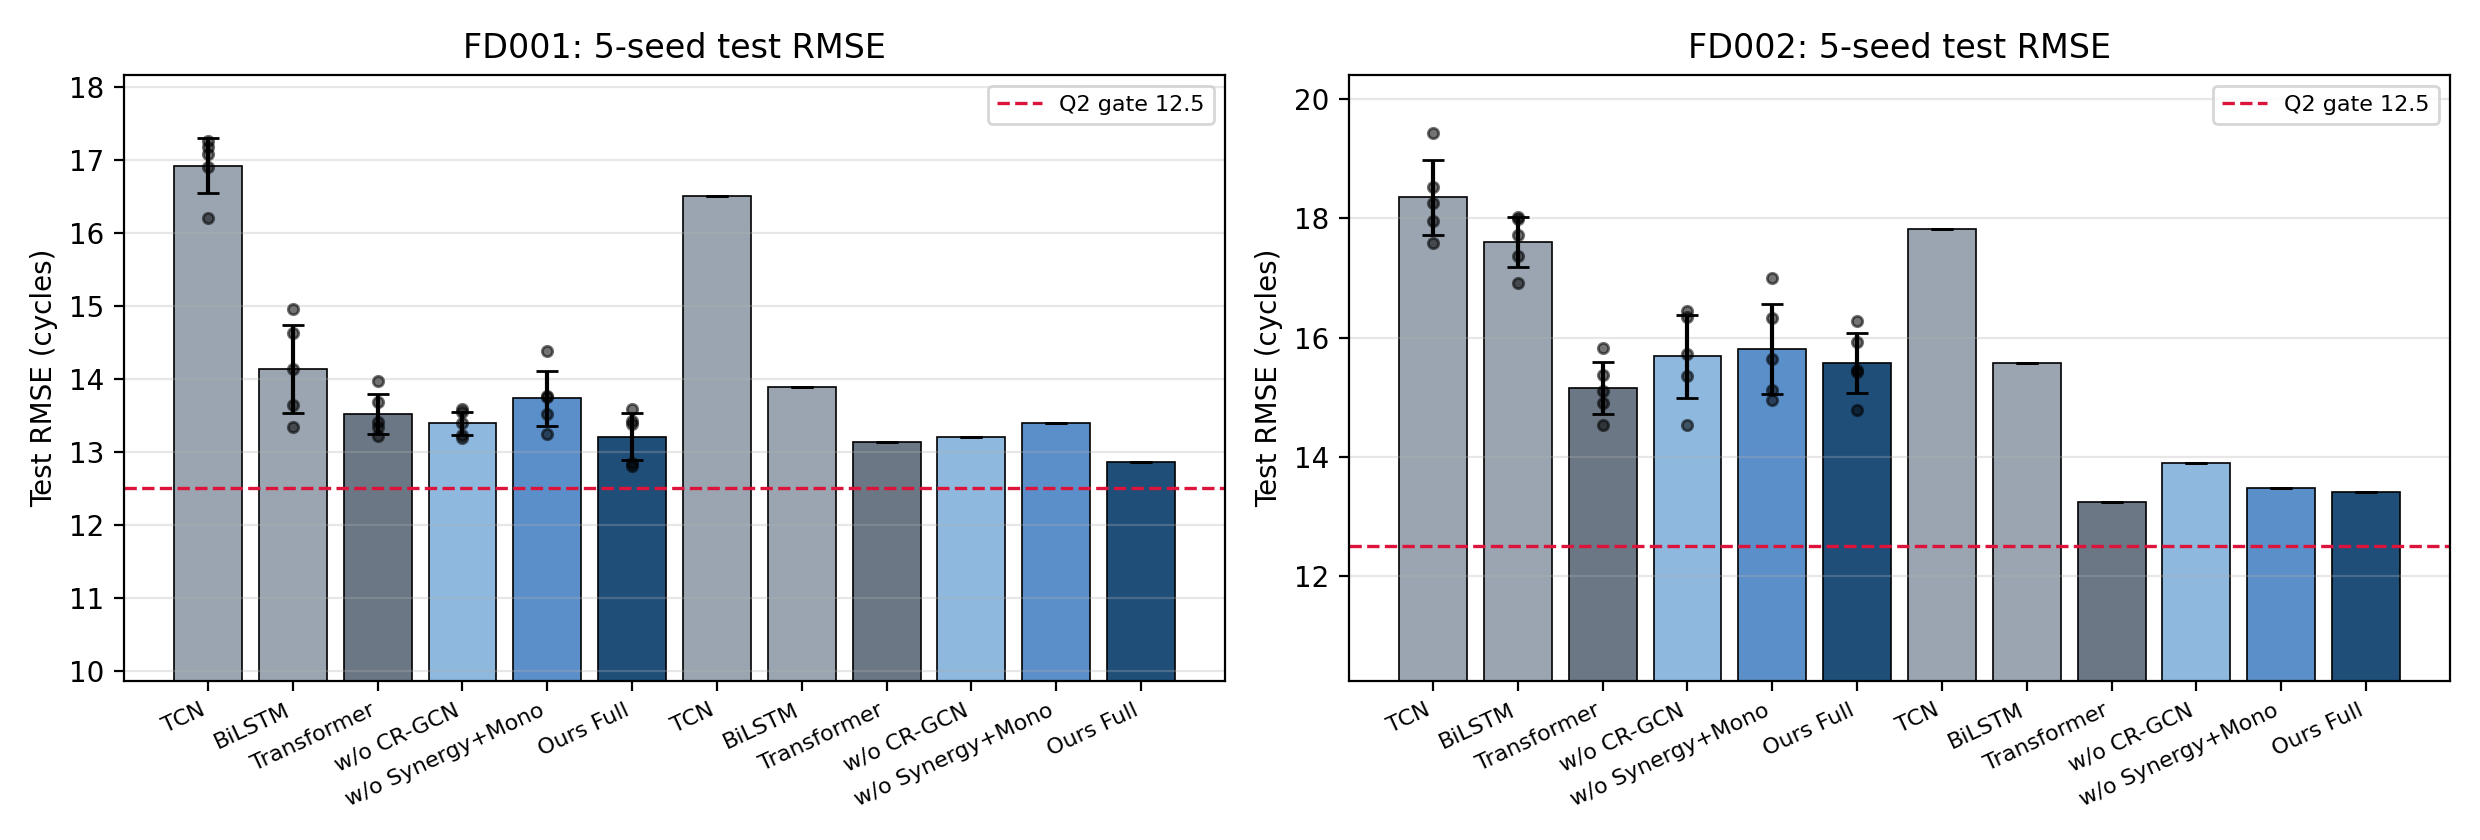
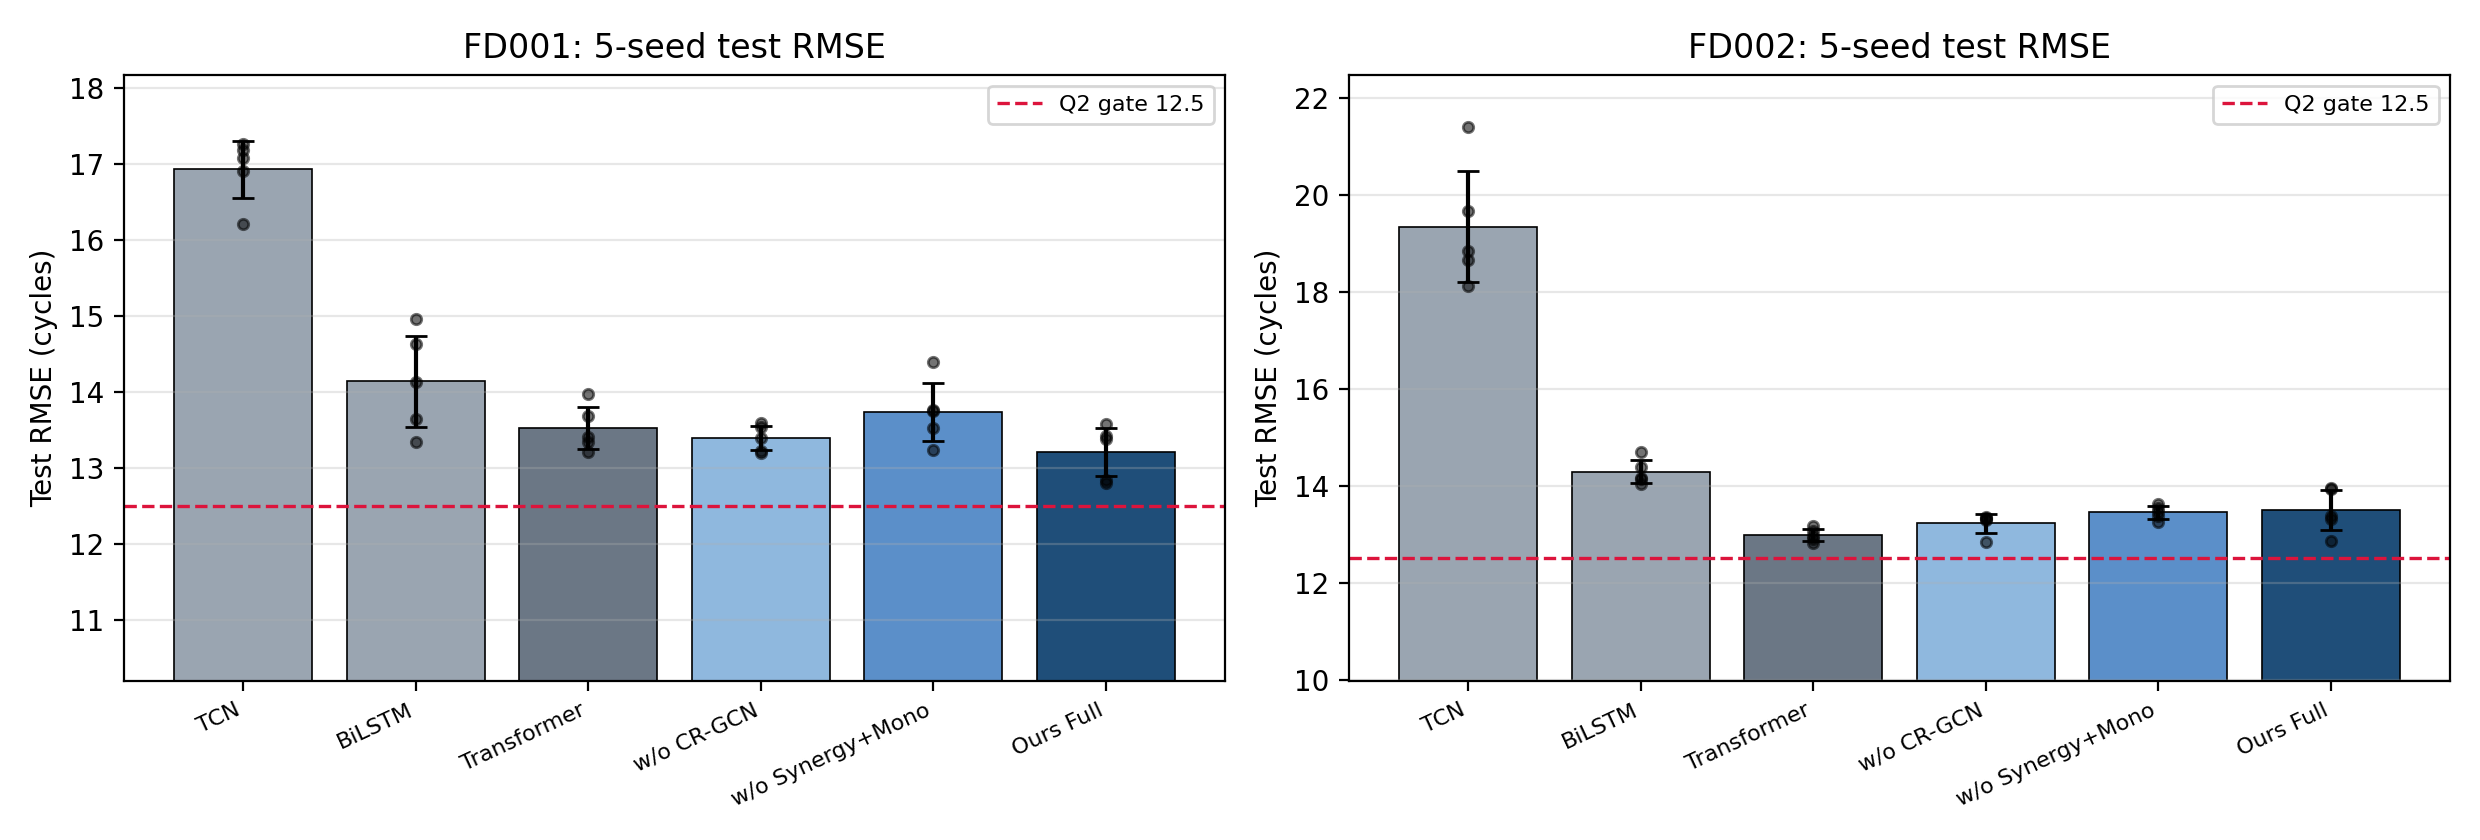
P9: figure panel shows single models only and uses the validation-selected FD002 budget

diff --git a/cmapss-rul/scripts/p9_figures.py b/cmapss-rul/scripts/p9_figures.py
@@ -33,8 +33,18 @@ COLORS = {
 
 
 def main() -> None:
-    data = json.loads((ROOT / "results" / "p9" / "p9_stats.json").read_text())
-    subsets = [s for s in ("FD001", "FD002") if s in data]
+    main_stats = json.loads((ROOT / "results" / "p9" / "p9_stats.json").read_text())
+    ep6_path = ROOT / "results" / "p9" / "ep6" / "p9_stats.json"
+    ep6_stats = json.loads(ep6_path.read_text()) if ep6_path.is_file() else main_stats
+    data = {
+        "FD001": [r for r in main_stats.get("FD001", []) if r.get("params", 1) > 0],
+        "FD002": [r for r in ep6_stats.get("FD002", []) if r.get("params", 1) > 0],
+    }
+    stats = {
+        "FD001": main_stats.get("stats", {}).get("FD001", {}),
+        "FD002": ep6_stats.get("stats", {}).get("FD002", {}),
+    }
+    subsets = [s for s in ("FD001", "FD002") if data.get(s)]
 
     # Figure 1: RMSE with seed-level spread
     fig, axes = plt.subplots(1, len(subsets), figsize=(6.2 * len(subsets), 4.2), squeeze=False)
@@ -64,9 +74,10 @@ def main() -> None:
 
     # Figure 2: paired deltas vs full
     fig, ax = plt.subplots(figsize=(6.4, 3.8))
+    stats_by_subset = stats
     ys, labels, lows, highs, means = [], [], [], [], []
     for subset in subsets:
-        stats = data.get("stats", {}).get(subset, {})
+        stats = stats_by_subset.get(subset, {})
         for variant, st in stats.items():
             if variant not in SHORT:
                 continue
